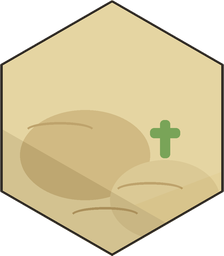
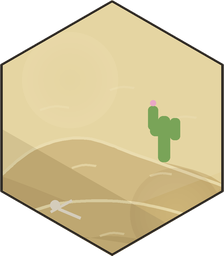
atelier: desert (dunes lissees, sable souffle, cactus, ossements), capitale (pierres, creneaux complets, fenetres), hutte bonus (branchage, chaume strie, lueur du tresor)

Changed region(s): [[0.0, 0.375, 1.0, 1.0], [0.3125, 0.625, 0.4375, 0.6562], [0.7188, 0.8125, 0.8125, 0.8438]]

diff --git a/assets-src/tools/generate.py b/assets-src/tools/generate.py
@@ -431,14 +431,44 @@ def tile_montagne(d, img, w, h, cx):
 
 def tile_desert(d, img, w, h, cx):
     d.poly(hex_points(cx, h / 2, w, h), fill=DESERT_1)
-    # dunes (crêtes douces)
-    d.ellipse((20, 110, 150, 200), fill=DESERT_2)
-    d.ellipse((110, 160, 220, 240), fill="#D8C48C")
-    for x, y in [(60, 130), (150, 190), (105, 215)]:
-        d.arc((x - 34, y - 8, x + 34, y + 8), 195, 345, fill="#B89B60", width=2.6)
-    # cactus discret (flat board-game)
-    d.rrect((160, 120, 170, 158), 4, fill="#6E9C4A")
-    d.rrect((150, 128, 180, 138), 4, fill="#6E9C4A")
+    # dunes lissées : crête éclairée, versant ombré en voile doux
+    def dune(pts, crete, sombre):
+        d.smooth_poly(pts + [(224, 256), (0, 256)], fill=DESERT_2)
+        d.smooth_line(crete, "#E8D9A8", 3)
+        def lee(dd):
+            dd.smooth_poly([pts[-1], (224, 256), pts[0],
+                            (pts[0][0] + 20, pts[0][1] + 24),
+                            (112, 236), (pts[-1][0] - 24, pts[-1][1] + 20)],
+                           fill=sombre)
+        soft_clip(img, lee)
+    dune([(0, 176), (36, 148), (84, 138), (140, 156), (224, 186)],
+         [(0, 176), (36, 148), (84, 138), (140, 156), (224, 186)],
+         (140, 112, 60, 40))
+    dune([(0, 226), (56, 204), (128, 202), (196, 218), (224, 234)],
+         [(0, 226), (56, 204), (128, 202), (196, 218), (224, 234)],
+         (140, 112, 60, 46))
+    # sable soufflé par le vent
+    def vent(dd):
+        for sx, sy, s in [(40, 110, 1.2), (110, 90, 1.0), (170, 120, 1.1),
+                          (72, 168, 1.0), (150, 176, 0.9), (100, 236, 1.0)]:
+            dd.smooth_line([(sx, sy), (sx + 12 * s, sy - 3 * s),
+                            (sx + 24 * s, sy - 2 * s)], (232, 217, 168, 170),
+                           2.4)
+    soft_clip(img, vent)
+    radial(img, 70, 80, 48, (255, 244, 200), 30)
+    radial(img, 176, 214, 46, (120, 90, 50), 28)
+    # cactus à deux bras + fleur
+    d.rrect((158, 116, 170, 162), 5, fill="#6E9C4A")
+    d.rrect((150, 124, 178, 136), 5, fill="#6E9C4A")
+    d.rrect((148, 106, 158, 130), 4, fill="#6E9C4A")
+    d.rrect((170, 118, 180, 140), 4, fill="#6E9C4A")
+    d.ellipse((150, 100, 156, 106), fill="#E8A0C0")
+    # ossements blanchis
+    for bx, by, ang in [(58, 208, -0.5), (66, 212, 0.4)]:
+        ex, ey = bx + 16 * math.cos(ang), by + 16 * math.sin(ang)
+        d.line([(bx - 8 * math.cos(ang), by - 8 * math.sin(ang)),
+                (ex, ey)], fill="#E4DCC8", width=3)
+    d.ellipse((50, 200, 60, 210), fill="#E4DCC8")
     light_from_topleft(img, w, h, cx, 20)
 
 
@@ -778,37 +808,55 @@ def ville_settlement(db, da, w, h):
 
 
 def ville_capitale(db, da, w, h):
-    """224×256 : muraille crénelée + donjon + grand drapeau (accent)."""
+    """224×256 : muraille crénelée + donjon + grand drapeau (accent :
+    toit du donjon, toits des tours, drapeau)."""
     shadow(db, 112, 212, 88)
-    # muraille
-    wall = [(30, 212), (30, 158), (194, 158), (194, 212)]
-    db.poly(wall, fill="#B0A390")
-    db.poly([(30, 212), (30, 158), (112, 158), (112, 212)], fill="#C2B6A2")
-    # créneaux
-    for x in range(30, 195, 24):
-        db.rrect((x, 146, x + 14, 160), 2, fill="#B0A390")
-    for x in (30, 90, 150):
-        db.rrect((x, 146, x + 14, 160), 2, fill="#C2B6A2")
-        break
-    # porte
+    # esplanade de terre devant la porte
+    db.ellipse((58, 196, 166, 220), fill=SOL_CHEMIN)
+    # muraille, coins adoucis, pan éclairé à gauche
+    db.smooth_poly([(30, 212), (30, 158), (194, 158), (194, 212)],
+                   fill="#B0A390")
+    db.smooth_poly([(30, 212), (30, 158), (112, 158), (112, 212)],
+                   fill="#C2B6A2")
+    # assises de pierres (lignes horizontales + joints décalés)
+    for yy in (172, 186, 200):
+        db.line([(32, yy), (110, yy)], fill="#B4A894", width=1.6)
+        db.line([(114, yy), (192, yy)], fill="#A49884", width=1.6)
+    for xx, yy in ((58, 165), (84, 179), (66, 193), (140, 165), (166, 179),
+                   (150, 193), (176, 200)):
+        db.line([(xx, yy), (xx, yy + 10)], fill="#AFA390", width=1.4)
+    # créneaux réguliers sur tout le pourtour
+    for x in range(30, 194, 24):
+        col = "#C2B6A2" if x < 112 else "#B0A390"
+        db.rrect((x, 146, x + 14, 160), 2, fill=col)
+    # porte en arc, pierre appareillée, bois clouté
     db.pieslice((88, 168, 136, 216), 180, 360, fill="#5E4E3A")
     db.rrect((88, 192, 136, 212), 2, fill="#5E4E3A")
-    # donjon
+    for vx in (100, 112, 124):
+        db.line([(vx, 176), (vx, 210)], fill="#4A3C2C", width=2.4)
+    db.ellipse((106, 190, 112, 196), fill="#8A6F4A")
+    # donjon avec fenêtres géminées
     db.rrect((92, 92, 132, 160), 3, fill="#C2B6A2")
+    db.line([(92, 108), (132, 108)], fill="#B4A894", width=1.6)
+    db.line([(92, 130), (132, 130)], fill="#B4A894", width=1.6)
+    db.rrect((100, 114, 108, 124), 1.5, fill="#5E4E3A")
+    db.rrect((116, 114, 124, 124), 1.5, fill="#5E4E3A")
+    db.rrect((104, 138, 120, 152), 2, fill="#5E4E3A")
     db.poly([(86, 96), (112, 62), (138, 96)], fill="#8E8272")
     da.poly([(86, 96), (112, 62), (138, 96)], fill="#FFFFFF")
-    db.rrect((104, 120, 120, 140), 2, fill="#5E4E3A")
-    # tours d'angle
+    # tours d'angle avec fenêtres
     for x in (26, 178):
         db.rrect((x, 120, x + 22, 160), 3, fill="#B0A390")
+        db.rrect((x + 7, 134, x + 15, 144), 1.5, fill="#5E4E3A")
         db.pieslice((x - 2, 102, x + 24, 128), 180, 360, fill="#8E8272")
         da.pieslice((x - 2, 102, x + 24, 128), 180, 360, fill="#FFFFFF")
-    # grand drapeau (accent)
+    # grand drapeau (accent) + oriflamme au vent
     db.line([(112, 62), (112, 18)], fill=BOIS, width=4)
     flag = [(114, 20), (162, 32), (114, 48)]
     db.poly(flag, fill="#8E8A80", outline=INK, width=0)
     da.poly(flag, fill="#FFFFFF")
     db.ellipse((109, 12, 115, 18), fill=OR)
+    db.line([(114, 34), (138, 30)], fill="#8E8A80", width=2.5)
 
 
 # ---------------------------------------------------------------- bâtiments (Phase 6, R-66)
@@ -1170,24 +1218,42 @@ def village_barbare(db, da, w, h):
     db.rrect((28, 142, 52, 172), 3, fill="#6E655C", outline=INK, width=2)
 
 
-def hutte(db, da, w, h):
+def hutte(db, da, w, h, img=None):
     """224×256 : hutte bonus — cabane de branchages au toit doré (accent) ;
     ouverte par la première unité qui entre sur sa case (R-98)."""
-    shadow(db, 112, 210, 66)
-    # murs de pisé / branchages
-    db.rrect((70, 146, 154, 210), 4, fill="#9C8A6A", outline=INK, width=2.5)
-    db.line([(76, 162), (148, 162)], fill="#8A7A5A", width=2)
-    db.line([(76, 186), (148, 186)], fill="#8A7A5A", width=2)
-    # toit de chaume = accent (doré au rendu)
-    roof = [(58, 150), (112, 96), (166, 150)]
+    shadow(db, 112, 212, 66)
+    # murs de branchage arrondis, lattes verticales
+    db.smooth_poly([(70, 210), (68, 148), (112, 142), (156, 148), (154, 210)],
+                   fill="#9C8A6A")
+    db.smooth_poly([(70, 210), (68, 148), (112, 142), (118, 146), (110, 210)],
+                   fill="#AC9A78")
+    for vx in (80, 92, 104, 128, 140):
+        db.line([(vx, 150), (vx, 208)], fill="#8A7A5A", width=2)
+    # toit de chaume débordant = accent (doré au rendu)
+    roof = [(56, 152), (112, 92), (168, 152), (156, 158), (112, 112),
+            (68, 158)]
     db.poly(roof, fill="#A3835A", outline=INK, width=2.5)
     da.poly(roof, fill="#FFFFFF")
-    # porte + lueur du trésor
-    db.rrect((100, 172, 124, 210), 3, fill="#5E4630")
-    db.ellipse((106, 184, 118, 196), fill=OR)
-    # herbes folles au pied
-    db.line([(58, 210), (52, 198)], fill=FORET_2, width=3)
-    db.line([(166, 210), (172, 198)], fill=FORET_2, width=3)
+    # stries de paillis sur le toit
+    for rx, lean in [(84, -12), (112, 0), (140, 12)]:
+        db.line([(rx, 148), (rx + lean, 116)], fill="#8A6F4A", width=2.4)
+    # faîte du toit
+    db.smooth_line([(92, 104), (112, 96), (132, 104)], "#C4A472", 3)
+    # porte ouverte + lueur du trésor qui déborde sur le sol
+    db.rrect((100, 170, 124, 210), 3, fill="#5E4630")
+    db.rrect((104, 176, 120, 208), 2, fill="#3E342A")
+    db.ellipse((106, 182, 118, 194), fill=OR)
+    db.poly([(104, 200), (120, 200), (124, 210), (100, 210)],
+            fill=(217, 169, 63, 120))
+    # pierres et herbes folles au pied
+    db.ellipse((60, 204, 74, 212), fill="#8F8A80")
+    db.ellipse((150, 204, 164, 212), fill="#8F8A80")
+    db.line([(56, 212), (50, 200)], fill=FORET_2, width=3)
+    db.line([(168, 212), (174, 200)], fill=FORET_2, width=3)
+    db.line([(64, 214), (60, 206)], fill="#6E9C4A", width=2.4)
+    if img is not None:
+        radial(img, 112, 196, 26, (255, 224, 130), 70)   # halo du trésor
+        radial(img, 130, 110, 22, (255, 244, 200), 40)   # chaume éclairé
 
 
 
